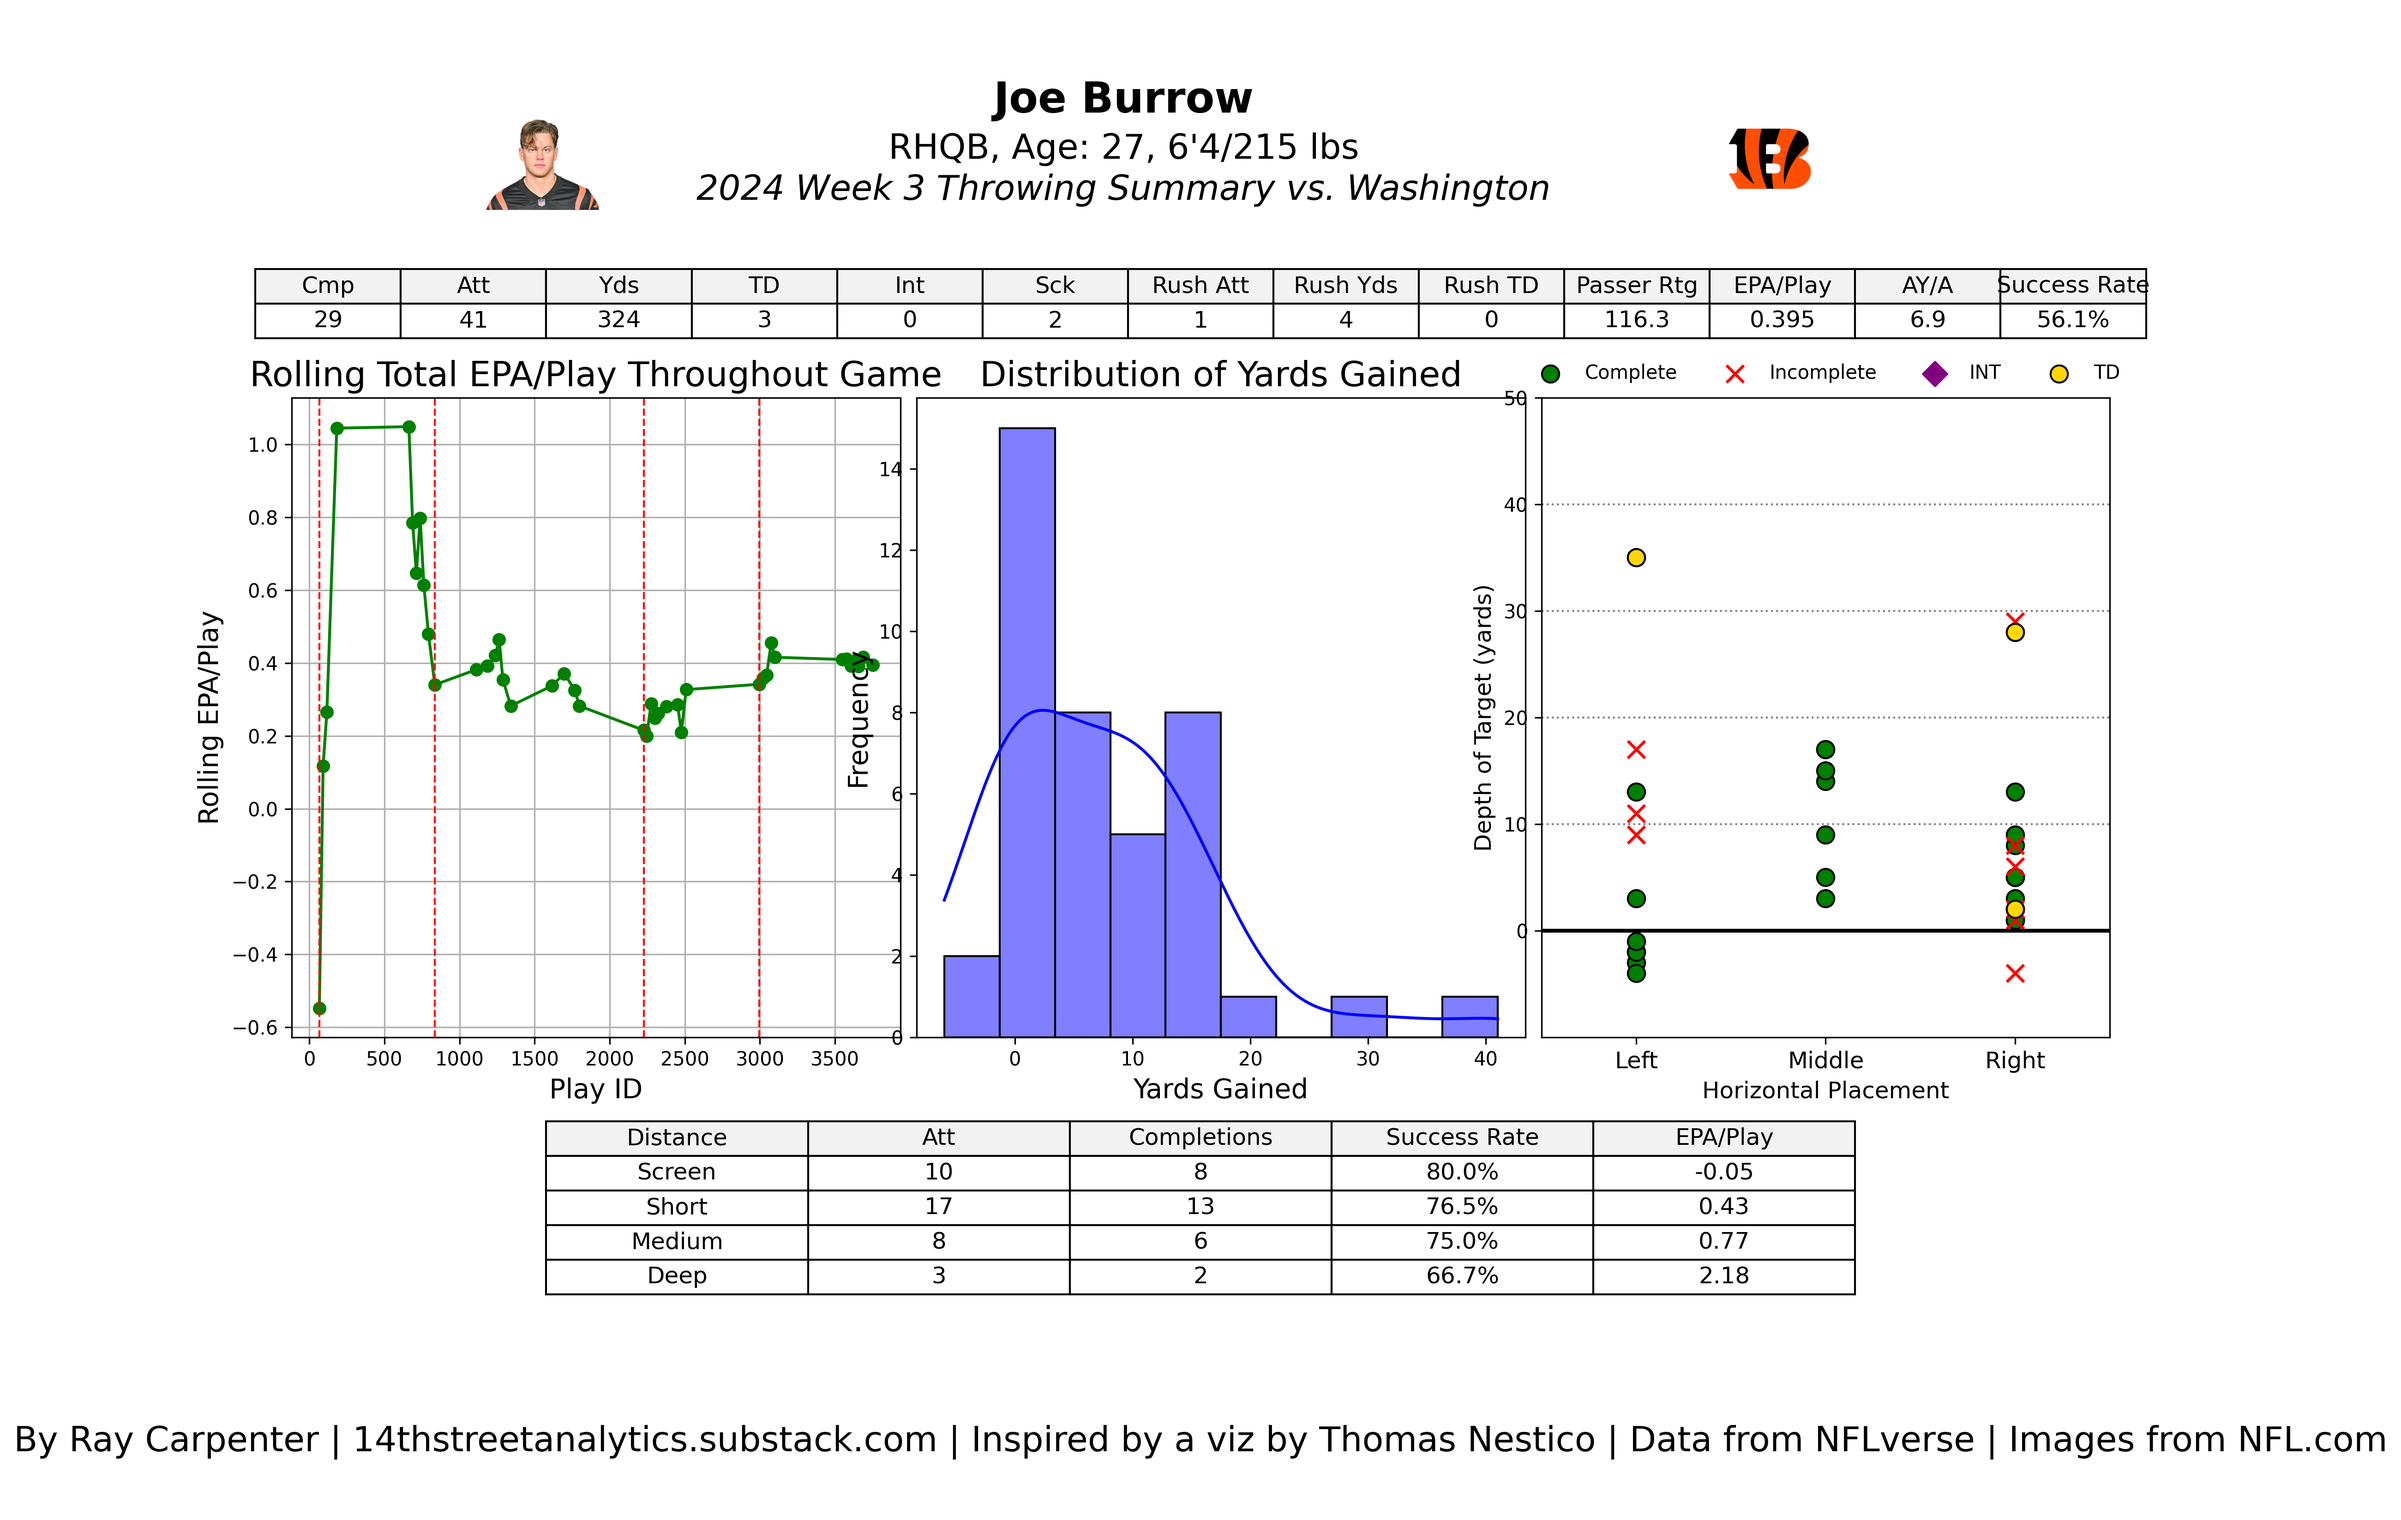
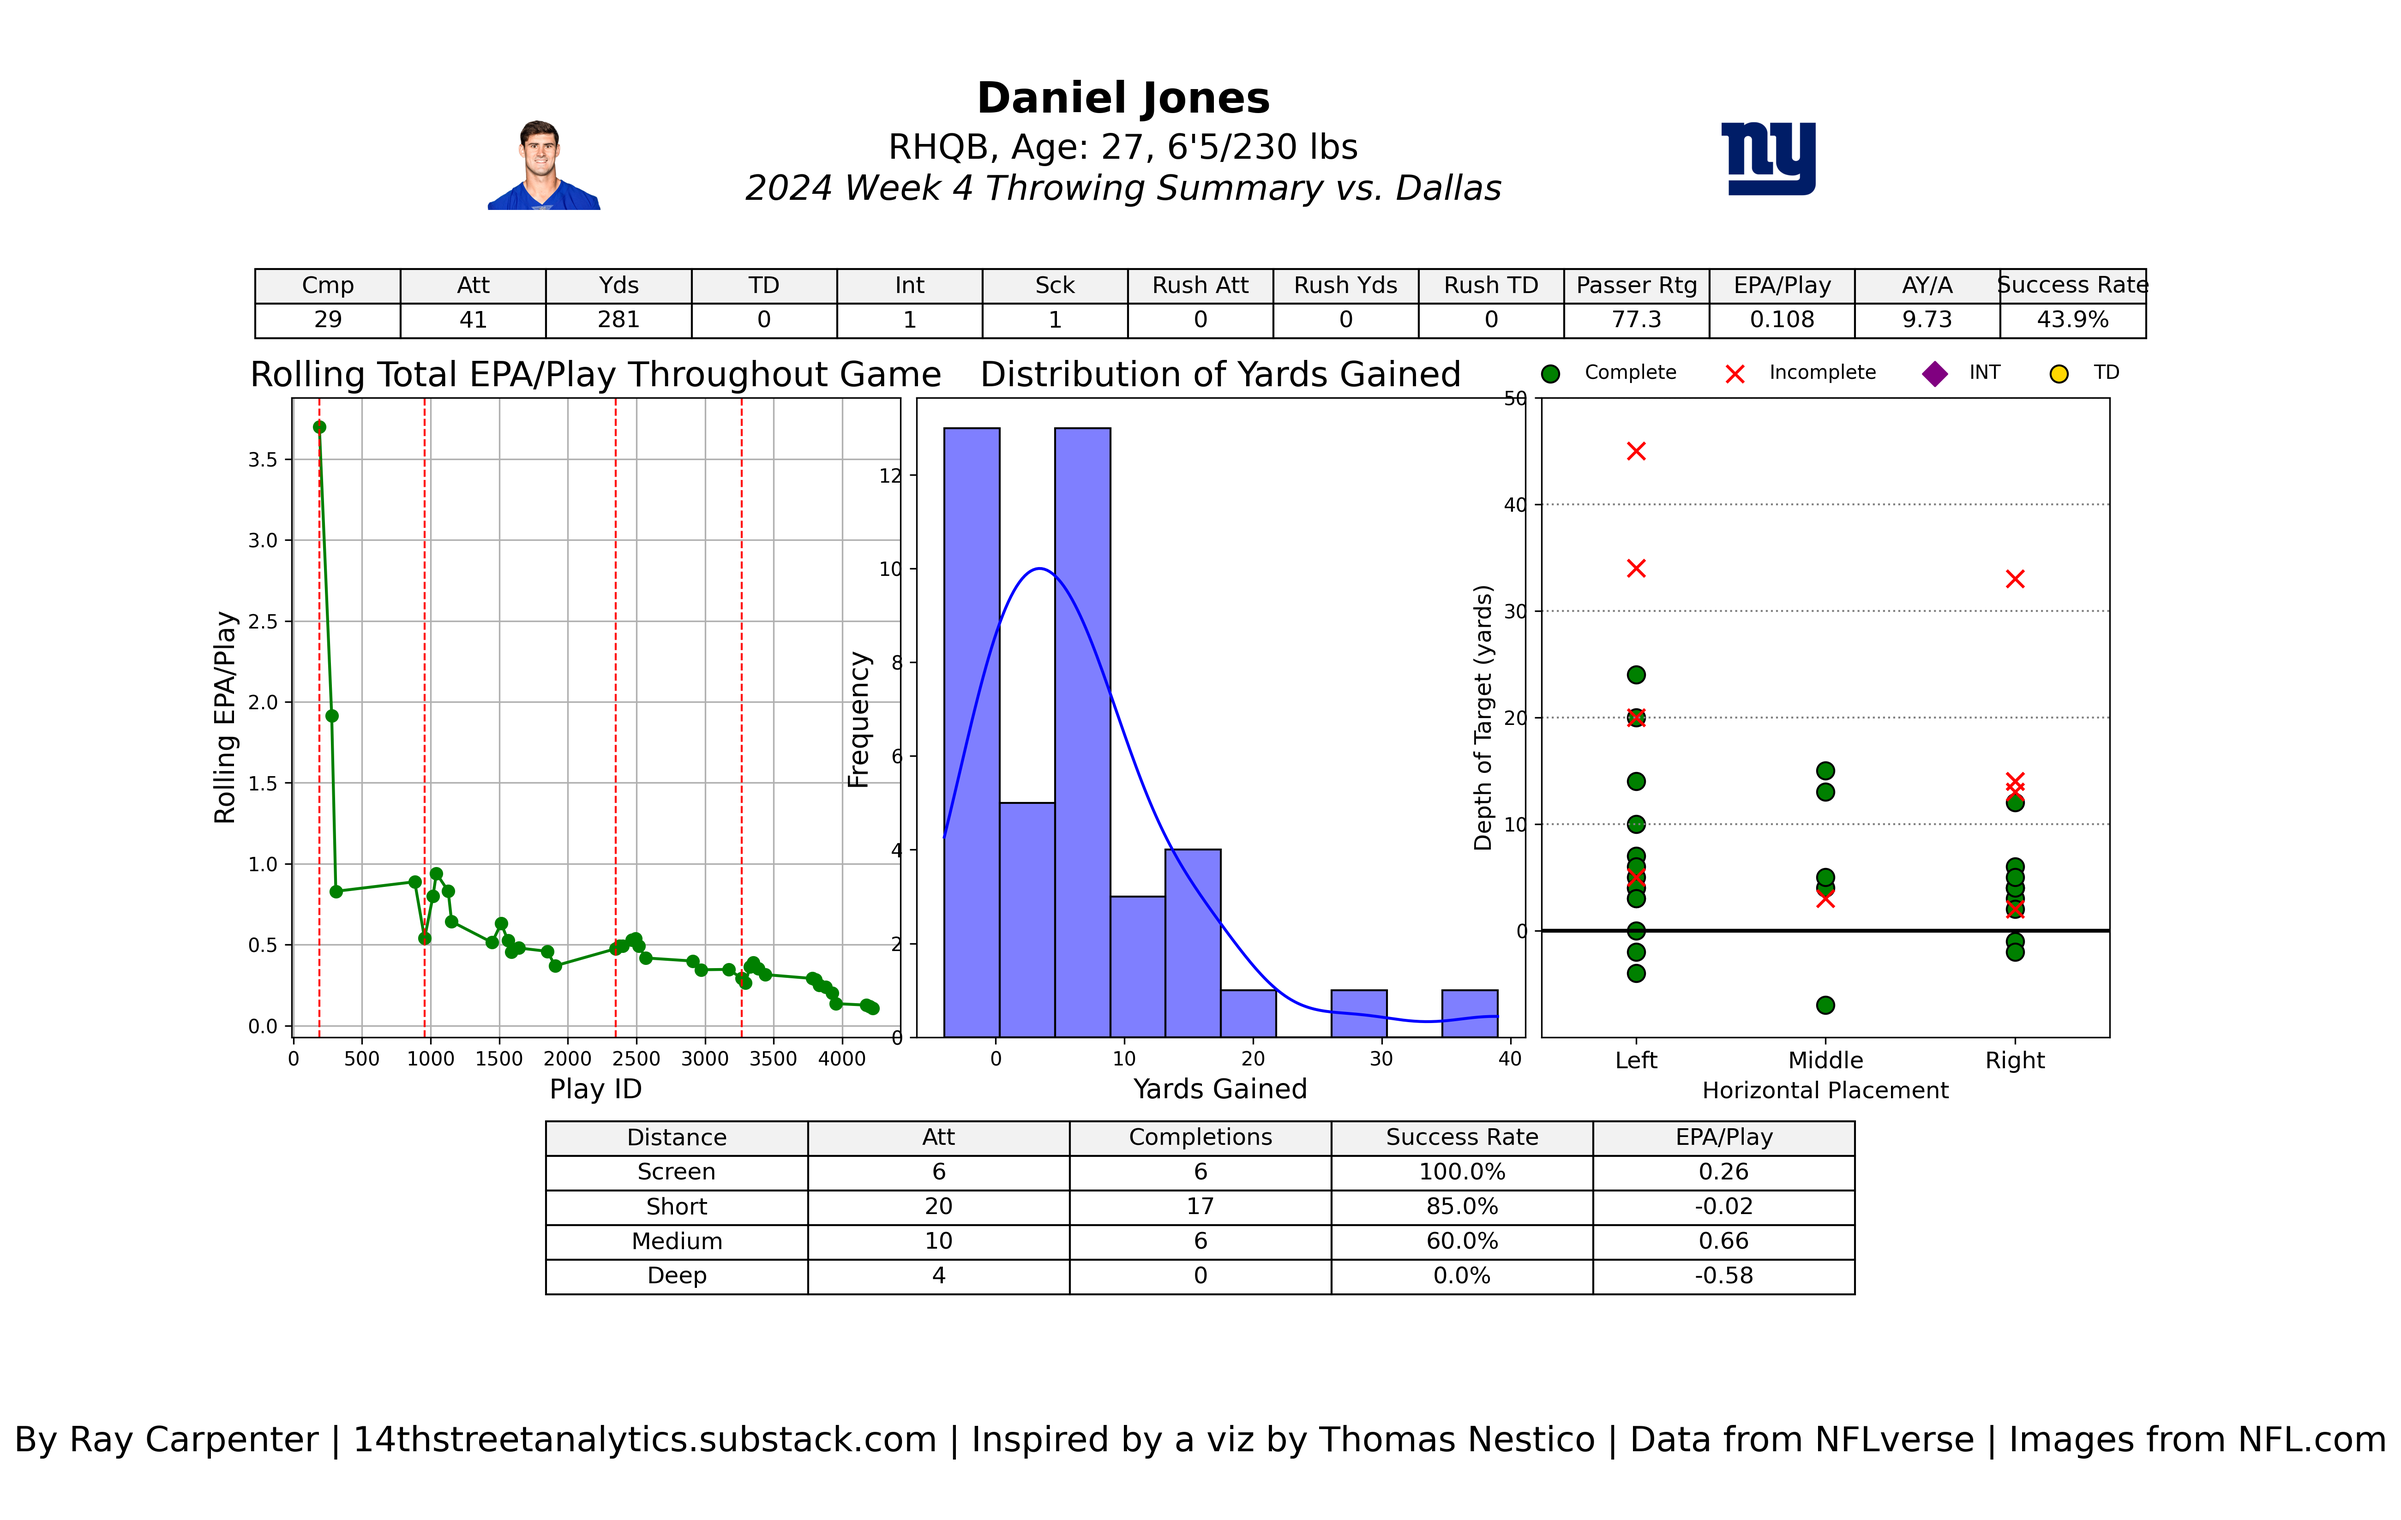
Week 4 time!

diff --git a/throwing_summary.py b/throwing_summary.py
@@ -54,7 +54,7 @@ player_info = qb_info[qb_info['Name'] == player_name].iloc[0]
 formatted_player_name = player_info['data_formatted_player_name']
 
 # Assuming the game date is stored in a specific format (e.g., 'YYYY-MM-DD')
-game_date_str = '2024-09-22'  # Adjust as necessary for the game being summarized
+game_date_str = '2024-09-26'  # Adjust as necessary for the game being summarized
 game_date = datetime.strptime(game_date_str, '%Y-%m-%d')
 
 # Calculate the player's age based on their birthday and the game date
@@ -129,8 +129,8 @@ passing_plays = filtered_df[filtered_df['passer_player_name'] == formatted_playe
 rushing_plays = filtered_df[filtered_df['rusher_player_name'] == formatted_player_name]
 
 # Filter game data by game id
-game_data_passing = passing_plays[passing_plays['game_id'] == '2024_03_WAS_CIN'] ### follow format YEAR_WEEK_AWAY_HOME 2023_12_BUF_PHI
-game_data_rushing = rushing_plays[rushing_plays['game_id'] == '2024_03_WAS_CIN']
+game_data_passing = passing_plays[passing_plays['game_id'] == '2024_04_DAL_NYG'] ### follow format YEAR_WEEK_AWAY_HOME 2023_12_BUF_PHI
+game_data_rushing = rushing_plays[rushing_plays['game_id'] == '2024_03_DAL_NYG']
 
 # Calculate cumulative completions and attempts for passing plays
 game_data_passing['cumulative_completions'] = game_data_passing['complete_pass'].cumsum()
@@ -320,7 +320,7 @@ def qb_dashboard(game_data_passing: pd.DataFrame, headshot: Image, team_abb: str
     # Adjust biographical information display
     ax_bio.text(0.5, 0.95, player_name, fontsize=22, ha='center', fontweight='bold')  # Dynamically display QB name
     ax_bio.text(0.5, 0.50, f'{player_info["dexterity"]}HQB, Age: {player_age}, {player_height}/{player_weight} lbs', fontsize=18, ha='center')  # Dynamically display height and weight
-    ax_bio.text(0.5, 0.1, f'2024 Week 3 Throwing Summary vs. Washington', fontsize=18, ha='center', fontstyle='italic')  # Still manually set game information
+    ax_bio.text(0.5, 0.1, f'2024 Week 4 Throwing Summary vs. Dallas', fontsize=18, ha='center', fontstyle='italic')  # Still manually set game information
     ax_bio.axis('off')
 
   
@@ -407,4 +407,4 @@ def qb_dashboard(game_data_passing: pd.DataFrame, headshot: Image, team_abb: str
 
 save_path = 'qb_dashboard.png'
 
-qb_dashboard(game_data_passing, headshot, "CIN", summary_df, pass_distance_summary, quarter_positions, save_path=save_path)
+qb_dashboard(game_data_passing, headshot, "NYG", summary_df, pass_distance_summary, quarter_positions, save_path=save_path)
